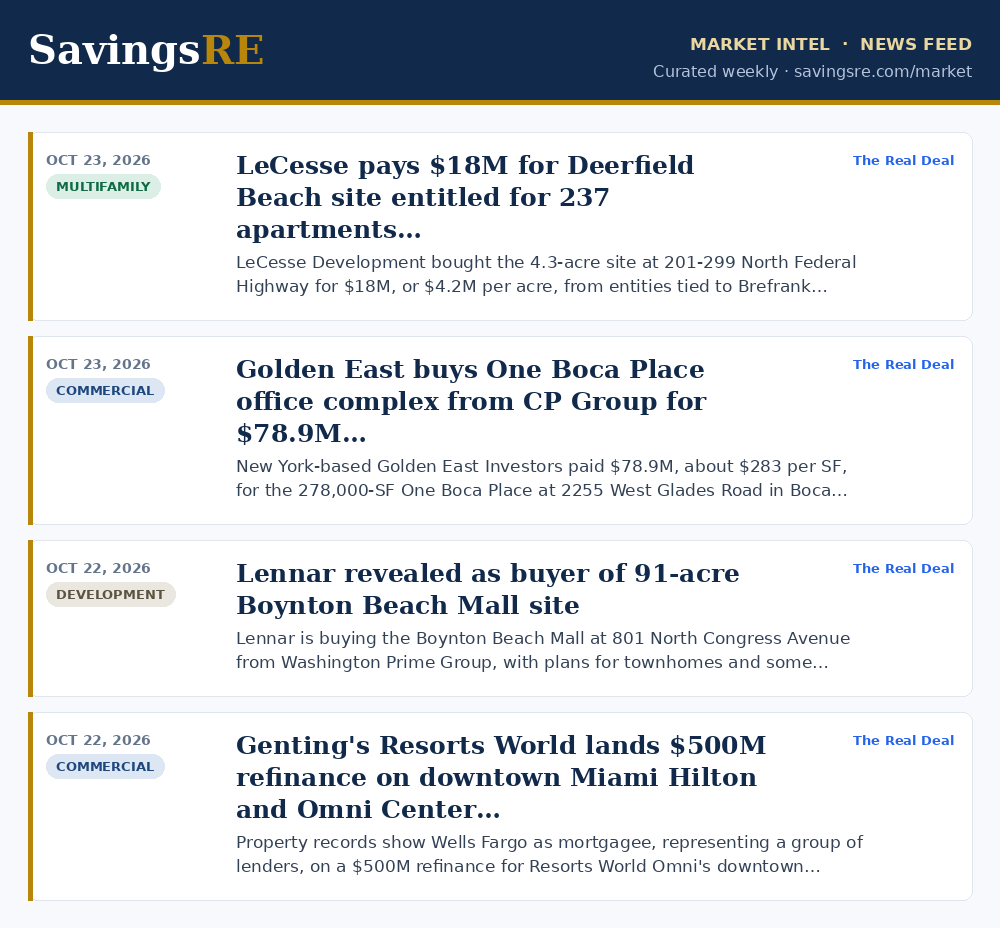
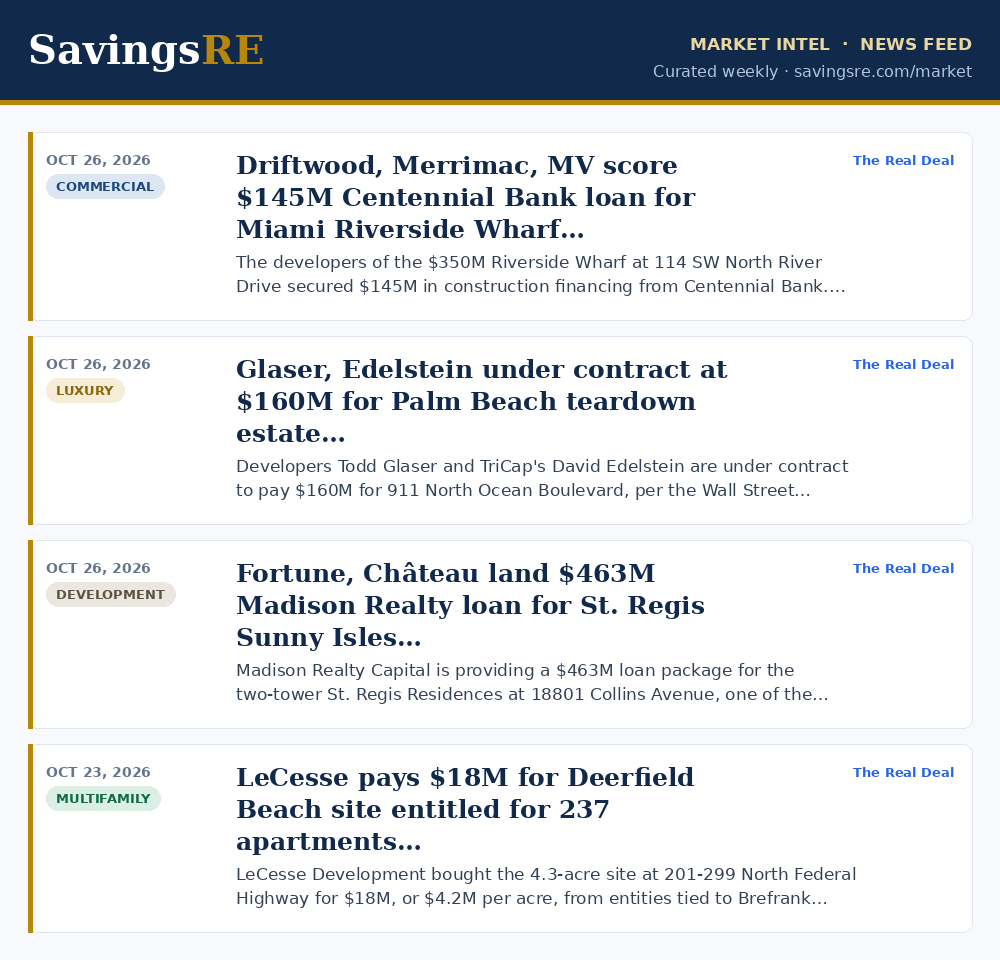
Market Intel refresh 2026-10-27 (scheduled)

diff --git a/market/index.html b/market/index.html
@@ -246,7 +246,7 @@ height="0" width="0" style="display:none;visibility:hidden"></iframe></noscript>
   <div class="eyebrow">South Florida &middot; Luxury &amp; Commercial &middot; Curated Weekly</div>
   <h1>Market <em>Intel</em></h1>
   <p>Live market data, mortgage &amp; insurance trends, and curated news across South Florida and statewide luxury and commercial real estate.</p>
-  <div class="updated"><span class="dot"></span><span id="updatedLine">Updated October 25, 2026</span></div>
+  <div class="updated"><span class="dot"></span><span id="updatedLine">Updated October 27, 2026</span></div>
 </header>
 
 <div class="wrap">
@@ -276,7 +276,7 @@ height="0" width="0" style="display:none;visibility:hidden"></iframe></noscript>
   </div>
 
   <!-- RATES + INSURANCE -->
-  <div class="sec-head" style="margin-top:8px">Mortgage Rates <span class="tag">as of <span id="ratesDate">Oct 23, 2026</span></span></div>
+  <div class="sec-head" style="margin-top:8px">Mortgage Rates <span class="tag">as of <span id="ratesDate">Oct 26, 2026</span></span></div>
   <div class="cards" id="ratesCards"></div>
 
   <div class="sec-head" style="margin-top:14px">FL Coastal Insurance <span class="tag" id="insTrend">Improving</span></div>
@@ -336,7 +336,7 @@ height="0" width="0" style="display:none;visibility:hidden"></iframe></noscript>
 
   /* ===== EMBEDDED DATA (mirror of market_data.json + news_data.json) ===== */
   var MARKET = {
-    meta:{updated:"2026-10-25", period:"Single-family & condo county medians — September 2026 (MIAMI REALTORS + RWorld county reports; Florida Realtors statewide)."},
+    meta:{updated:"2026-10-27", period:"Single-family & condo county medians — September 2026 (MIAMI REALTORS + RWorld county reports; Florida Realtors statewide)."},
     residential:{
       columns:["Area","SF Median","SF YoY","Condo Median","Closed Sales YoY","Homes for Sale YoY"],
       rows:[
@@ -369,9 +369,9 @@ height="0" width="0" style="display:none;visibility:hidden"></iframe></noscript>
         "West Palm Beach office pipeline ~3.3M SF (~700K SF under construction)."
       ]
     },
-    rates:{date:"Oct 23, 2026",cards:[
-      {label:"30-Yr Fixed (conforming)",value:"7.33%",sub:"daily lender avg Oct 23; Freddie Mac PMMS 7.32% for the wk of 10/22, down from 7.40% (next print 10/29)"},
-      {label:"30-Yr Jumbo",value:"7.60%",sub:"daily jumbo avg Oct 23"},
+    rates:{date:"Oct 26, 2026",cards:[
+      {label:"30-Yr Fixed (conforming)",value:"7.33%",sub:"daily lender avg Oct 26; Freddie Mac PMMS 7.32% for the wk of 10/22, down from 7.40% (next print 10/29)"},
+      {label:"30-Yr Jumbo",value:"7.60%",sub:"daily jumbo avg Oct 26"},
       {label:"Jumbo loan threshold",value:"$832,750",sub:"2026 FHFA baseline (most areas)"}
     ]},
     insurance:{trend:"Improving / stabilizing",cards:[
@@ -382,6 +382,9 @@ height="0" width="0" style="display:none;visibility:hidden"></iframe></noscript>
     ],note:"Coastal properties, older homes, and condos may see less relief than standard inland single-family homes."}
   };
   var NEWS = [
+    {id:206,date:"2026-10-26",title:"Driftwood, Merrimac, MV score $145M Centennial Bank loan for Miami Riverside Wharf",summary:"The developers of the $350M Riverside Wharf at 114 SW North River Drive secured $145M in construction financing from Centennial Bank. The 200,000 SF, nine-story, two-tower project will include a 167-room Dream Hotel, a 30,000 SF nightclub, a 12,000 SF event hall and 16,000 SF of restaurant space. Completion is targeted for fall 2028.",source:"The Real Deal",sourceUrl:"https://therealdeal.com/miami/2026/10/26/developers-secure-145-million-for-miami-riverside-wharf/",category:"Commercial/CRE",importance:"medium"},
+    {id:205,date:"2026-10-26",title:"Glaser, Edelstein under contract at $160M for Palm Beach teardown estate",summary:"Developers Todd Glaser and TriCap's David Edelstein are under contract to pay $160M for 911 North Ocean Boulevard, per the Wall Street Journal. That is just under the island's $170M record set in 2023. The 2.2-acre site has 250 feet of ocean frontage and about 17,600 SF of 1970s buildings, or roughly $9,100 per SF. The family listed it at $185M last year; the buyers plan to split it into two lots.",source:"The Real Deal",sourceUrl:"https://therealdeal.com/miami/2026/10/26/todd-glaser-david-edelstein-buying-160-million-teardown/",category:"Luxury",importance:"high"},
+    {id:204,date:"2026-10-26",title:"Fortune, Château land $463M Madison Realty loan for St. Regis Sunny Isles",summary:"Madison Realty Capital is providing a $463M loan package for the two-tower St. Regis Residences at 18801 Collins Avenue, one of the largest loans to close in Sunny Isles Beach. It refinances existing debt, including Bank OZK loans from 2020. The project is 80% presold; the south tower (150 units) is under vertical construction and the north tower (170 units) is next. Remaining units start at $5.1M.",source:"The Real Deal",sourceUrl:"https://therealdeal.com/miami/2026/10/26/fortune-chateau-score-463-million-loan-for-st-regis/",category:"Development",importance:"high"},
     {id:203,date:"2026-10-23",title:"LeCesse pays $18M for Deerfield Beach site entitled for 237 apartments",summary:"LeCesse Development bought the 4.3-acre site at 201-299 North Federal Highway for $18M, or $4.2M per acre, from entities tied to Brefrank Enterprises and Centrum. CIBC Bank USA provided an $11.3M mortgage. The plan is a five-story, 237-unit building with a 452-space garage. The sellers assembled the site for $8.6M between 2017 and 2021, and the city is weighing looser development rules.",source:"The Real Deal",sourceUrl:"https://therealdeal.com/miami/2026/10/23/lecesse-scoops-up-18m-deerfield-beach-dev-site-as-city-weighs-easing-restrictions/",category:"Multifamily",importance:"medium"},
     {id:202,date:"2026-10-23",title:"Golden East buys One Boca Place office complex from CP Group for $78.9M",summary:"New York-based Golden East Investors paid $78.9M, about $283 per SF, for the 278,000-SF One Boca Place at 2255 West Glades Road in Boca Raton, its first Florida purchase. City National Bank of Florida provided an $82.1M loan. CP Group paid $76.4M in 2014 and remains property manager. It is CP's third big Boca office sale in recent weeks, after the Boca Raton Innovation Campus and Two Town Center. Asking rent is $52/SF.",source:"The Real Deal",sourceUrl:"https://therealdeal.com/miami/2026/10/23/golden-east-investors-buys-boca-raton-office-for-79-million/",category:"Commercial/CRE",importance:"high"},
     {id:201,date:"2026-10-22",title:"Lennar revealed as buyer of 91-acre Boynton Beach Mall site",summary:"Lennar is buying the Boynton Beach Mall at 801 North Congress Avenue from Washington Prime Group, with plans for townhomes and some commercial space, per the Palm Beach Post as cited by The Real Deal. The 91-acre site has approval for 1,700 housing units. The mall is expected to close Jan. 15. JCPenney, Cinemark and Christ Fellowship Church own their buildings, which are not part of the sale.",source:"The Real Deal",sourceUrl:"https://therealdeal.com/miami/2026/10/22/lennar-revealed-as-buyer-of-boynton-beach-mall/",category:"Development",importance:"medium"},
@@ -394,10 +397,7 @@ height="0" width="0" style="display:none;visibility:hidden"></iframe></noscript>
     {id:194,date:"2026-10-15",title:"BKM Capital spends $174M on three Florida industrial deals in three weeks",summary:"California-based BKM Capital Partners paid $14M ($230/SF) for the 61,100-SF Palm Crossing South in Fort Lauderdale and $57M ($270/SF) with Kayne Anderson for the 210,000-SF Lakeview Center, plus $103M ($190/SF) for a 543,000-SF Orlando portfolio. JLL says Broward industrial rents reached $17.10/SF NNN, up 4.1% YoY, with 158,500 SF absorbed in Q3 despite slower leasing and investment activity.",source:"The Real Deal",sourceUrl:"https://therealdeal.com/miami/2026/10/15/bkm-capital-partners-bets-174-million-on-florida-industrial/",category:"Commercial/CRE",importance:"medium"},
     {id:193,date:"2026-10-14",title:"Boca Raton spec mansion at 1520 Royal Palm Way finds buyer at ~$31.8M ask",summary:"SRD Building's nearly 8,600-SF waterfront estate in Royal Palm Yacht & Country Club, asking about $31.8M ($3,710/SF), was the priciest Palm Beach County contract of Oct. 5-11. Per Douglas Elliman's Eklund Gomes team, buyers signed 12 contracts of $3M+ totaling about $112.3M in asking volume, versus 12 contracts and $96M the prior week.",source:"The Real Deal",sourceUrl:"https://therealdeal.com/miami/2026/10/14/dingle-brothers-boca-raton-spec-mansion-finds-buyer/",category:"Luxury",importance:"medium"},
     {id:192,date:"2026-10-14",title:"David Martin's Terra Lands $183.8M Monroe Capital Refi on The Well Bay Harbor Islands Offices",summary:"Terra refinanced the 96,000-SF office building it completed this summer at The Well Bay Harbor Islands with $183.8M from Monroe Capital's real estate platform (Walker & Dunlop arranged). The office is 90% leased, including Tom Brady's TEB Capital (8,400 SF) and Dwight Capital (23,000 SF). A partial release of the prior $238M Eldridge/Hudson Bay loan was recorded Tuesday. Boutique waterfront office-plus-condo projects are drawing out-of-state financial tenants.",source:"The Real Deal",sourceUrl:"https://therealdeal.com/miami/2026/10/14/david-martins-terra-nabs-refi-on-the-well-offices/",category:"Commercial/CRE",importance:"medium"},
-    {id:191,date:"2026-10-13",title:"MRK Partners Lands $67M Berkadia Financing for 164-Unit Fort Lauderdale Affordable Redevelopment",summary:"MRK Partners secured $67M in construction-to-permanent financing ($50M tax-exempt, $17M taxable, about $408,540 per unit) from Berkadia to replace 88 1950s units with 164 affordable apartments in two five-story buildings on 3.7 acres in Progresso, Fort Lauderdale. The project extends the property's Section 8 HAP contract through 2046 amid a 74,100-unit Broward affordable-housing shortfall.",source:"The Real Deal",sourceUrl:"https://therealdeal.com/miami/2026/10/13/mrk-partners-nabs-loan-for-fort-lauderdale-housing-project/",category:"Multifamily",importance:"medium"},
-    {id:190,date:"2026-10-13",title:"Russell Galbut Scraps Three Miami Beach Live Local Act Projects, ~400 Units, After Backlash",summary:"Crescent Heights/GFO developer Russell Galbut withdrew three Live Local Act proposals in South Beach (1575 Alton Rd, 740 Alton Rd, 880 71st St) after opposition from city and county commissioners; he says he still backs the law and other Beach projects. Miami Beach commissioners were set to weigh possible legal action against the state law, signaling rising local pushback on Live Local density bonuses.",source:"The Real Deal",sourceUrl:"https://therealdeal.com/miami/2026/10/13/russell-galbut-nixes-live-local-act-miami-beach-projects/",category:"Policy/Insurance",importance:"medium"},
-    {id:189,date:"2026-10-13",title:"Dania Beach Nursing Home Sells for $16.6M, $800/SF; Miami Beach Mansion Trades at $21.5M",summary:"Tordjman Equities-tied buyer acquired the 88-bed, 20,758-SF Westlake Nursing and Rehab Center at 440 Phippen-Waiters Road for $16.6M, or $800/SF, per TRD; the deed price may exclude business assets. Separately, a six-bedroom, 3,464-SF waterfront home at 6500 Allison Road in Miami Beach sold off-market for $21.5M, or $995/SF, with 100 feet of ocean frontage on a half-acre lot.",source:"The Real Deal",sourceUrl:"https://therealdeal.com/data/miami/2026/south-florida-top-real-estate-deals-oct-12-2026/",category:"Commercial/CRE",importance:"medium"},
-    {id:188,date:"2026-10-12",title:"Rock Soffer Sells Wynwood Site at 127-135 NW 24th St for $6.5M, With $4M Seller Financing",summary:"An entity tied to David Ederhy bought the 14,500-SF site for $6.5M, with the seller providing $4M in financing maturing September 2028. It expands the buyer's Wynwood assemblage to 0.7 acres, with a combined cost of $14.7M. Soffer paid $13.1M in late 2022 for a planned mixed-use hotel that did not pencil out on the smaller site.",source:"The Real Deal",sourceUrl:"https://therealdeal.com/miami/2026/10/12/turnberrys-rock-soffer-sells-wynwood-assemblage/",category:"Commercial/CRE",importance:"low"}
+    {id:191,date:"2026-10-13",title:"MRK Partners Lands $67M Berkadia Financing for 164-Unit Fort Lauderdale Affordable Redevelopment",summary:"MRK Partners secured $67M in construction-to-permanent financing ($50M tax-exempt, $17M taxable, about $408,540 per unit) from Berkadia to replace 88 1950s units with 164 affordable apartments in two five-story buildings on 3.7 acres in Progresso, Fort Lauderdale. The project extends the property's Section 8 HAP contract through 2046 amid a 74,100-unit Broward affordable-housing shortfall.",source:"The Real Deal",sourceUrl:"https://therealdeal.com/miami/2026/10/13/mrk-partners-nabs-loan-for-fort-lauderdale-housing-project/",category:"Multifamily",importance:"medium"}
   ];
 
   /* ===== HELPERS ===== */
